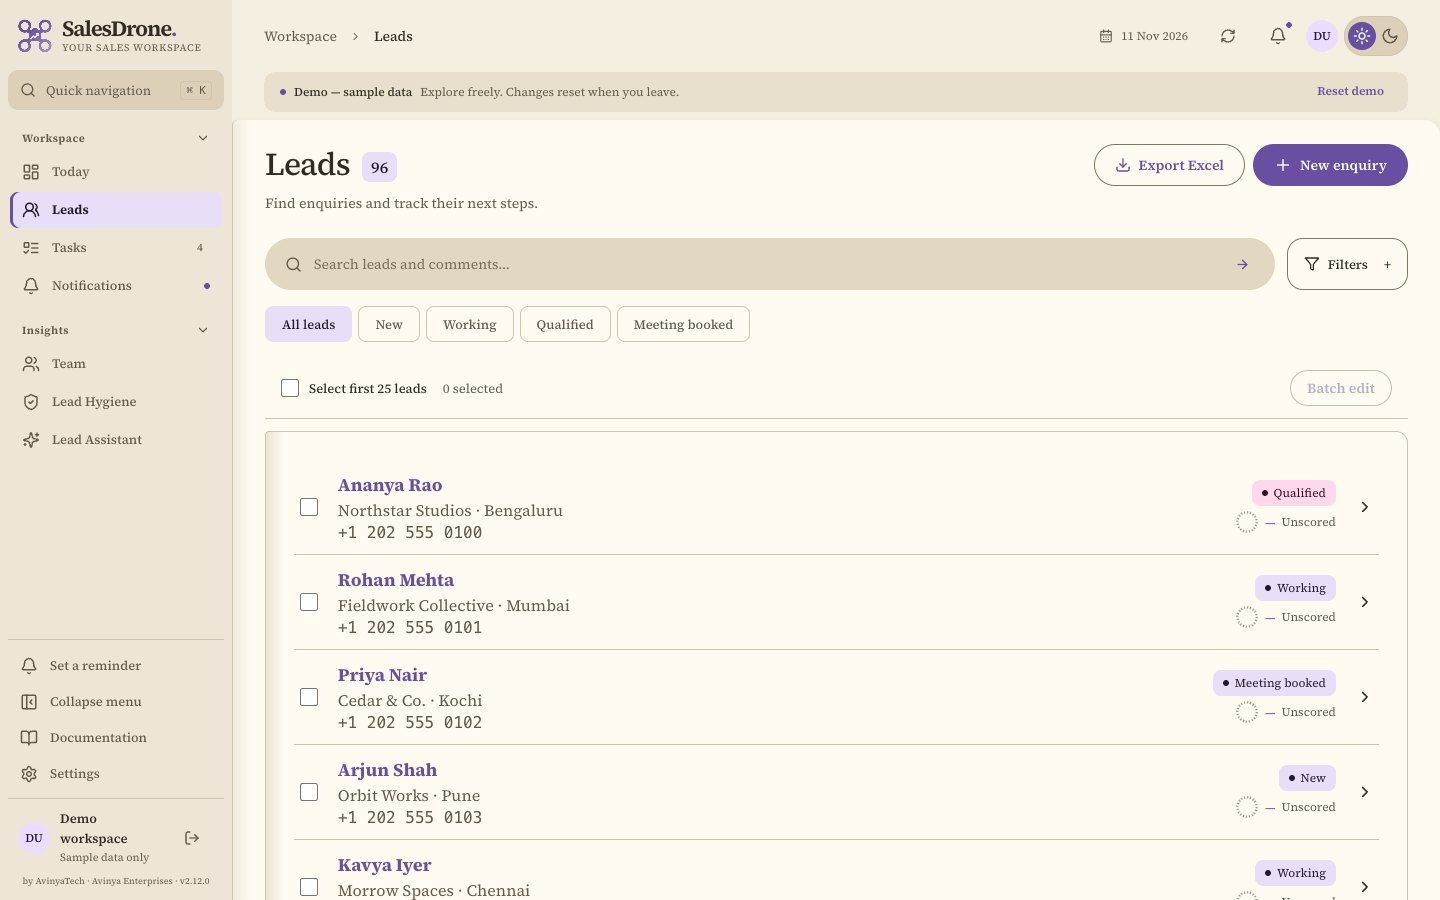
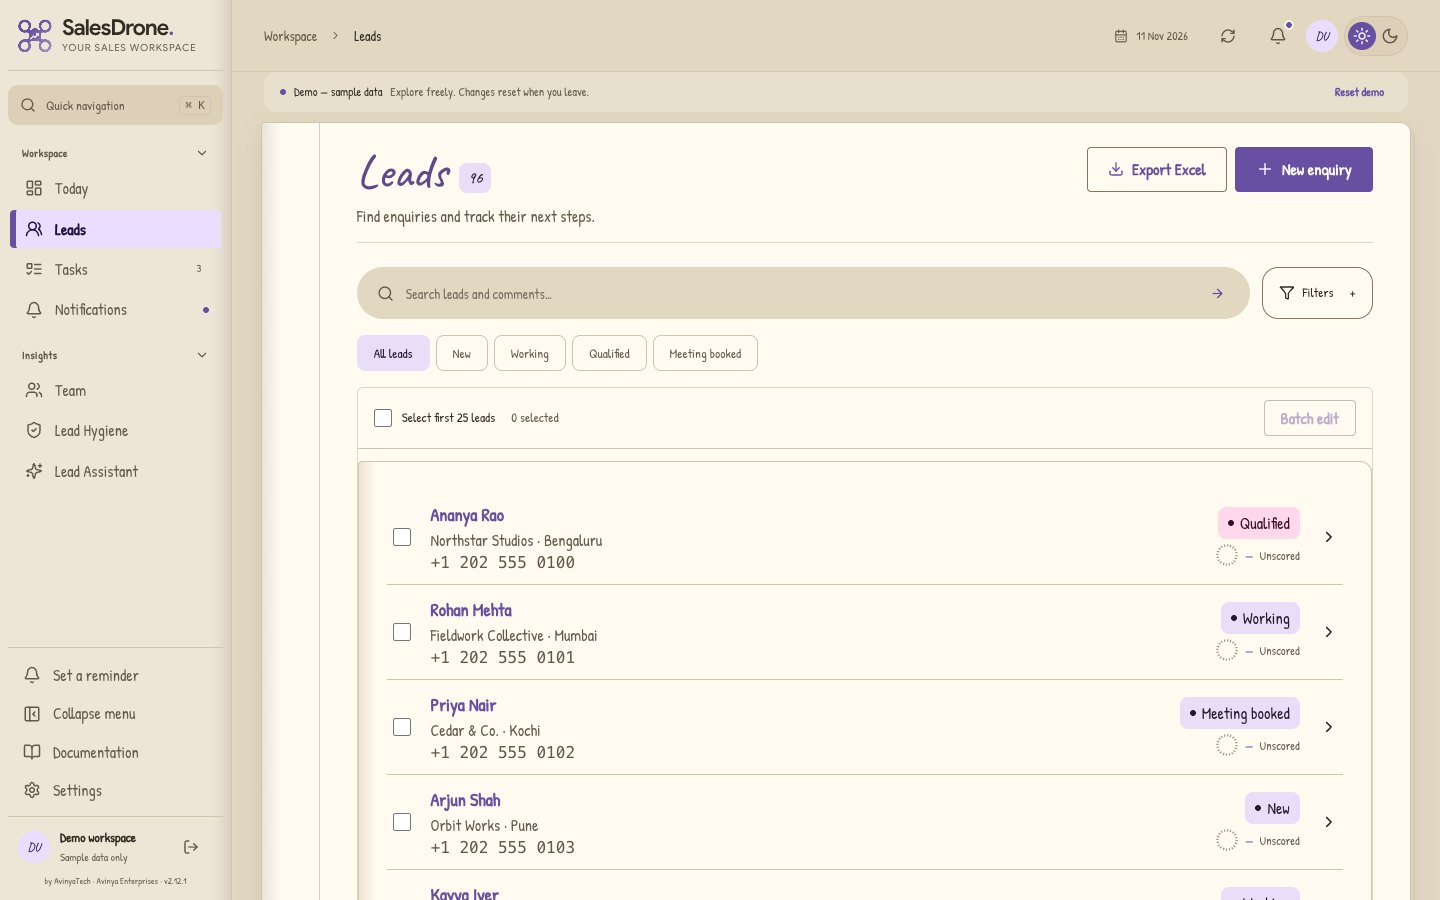
chore: prepare the v2.12.1 Book mode release

diff --git a/apps/web/src/features/SettingsPage.tsx b/apps/web/src/features/SettingsPage.tsx
@@ -498,7 +498,7 @@ export default function SettingsPage({
                       <p id="interface-font-help" className="field-hint">
                         Preview only until you save. Personal to your account.
                         Branding and phone-number fonts stay consistent. Book
-                        mode uses its own serif font; your choice returns when
+                        mode uses its own handwriting fonts; your choice returns when
                         Book mode is off.
                       </p>
                     </section>

diff --git a/docs/PRODUCT-GUIDE.md b/docs/PRODUCT-GUIDE.md
@@ -1,6 +1,6 @@
 # SalesDrone product handbook
 
-Version 2.12.0
+Version 2.12.1
 
 [Complete settings reference](SETTINGS.md) · [API guide](API.md) · [Technical architecture](TECHNICAL.md)
 
@@ -574,6 +574,8 @@ This is a visual reading style. It does not add offline access, physical e-ink b
 
 Book mode uses larger handwriting for body text and labels. On phones the binding narrows and navigation remains accessible from the bottom tabs.
 
+![Book mode: a quieter reading workspace — synthetic demo only](../site/assets/screenshots/book-dashboard-demo.jpg)
+
 ### Questions
 
 **Does switching to dark mode turn Book mode off?**
@@ -724,7 +726,7 @@ On narrow screens a lead opens its dedicated page. On larger screens inspection 
 
 Dialogs and Settings forms select columns by their own available width. Dashboard labels remain readable independently of chart geometry. Keyboard focus, reduced motion and 44px control targets remain available.
 
-Standard keeps the current Google Sans/Manrope pairing. Inter and Source Sans 3 offer sans-serif alternatives; Lora is an editorial serif. Book mode keeps its reading font and restores your saved selection when turned off. Branding, phone numbers and technical code are protected. Unsupported characters use system fallbacks.
+Standard keeps the current Google Sans/Manrope pairing. Inter and Source Sans 3 offer sans-serif alternatives; Lora is an editorial serif. Book mode uses its own handwriting and restores your saved selection when turned off. Branding, phone numbers and technical code are protected. Unsupported characters use system fallbacks.
 
 Settings > Appearance & time > Display zoom offers 85%, 90%, 100%, 110% or 125%. Save changes applies it on phones, tablets and desktops. Touch targets stay usable when making the content smaller. Browser and pinch zoom remain available; choose 100% to reset. This is personal and does not change permissions or lead data.
 

diff --git a/docs/FONT-CHOICES.md b/docs/FONT-CHOICES.md
@@ -6,7 +6,7 @@ Settings > Appearance & time includes an Interface font selector and an immediat
 
 The preference belongs to the signed-in member, not the whole workspace. Google sign-in/App Check and active membership are required for GET/PATCH /me; PATs cannot change this preference. Missing values default to Standard; older clients preserve saved values when omitting the field. Demo settings use a separate browser-local fallback and never become a live member’s default. Failed saves do not apply the draft globally.
 
-Book mode keeps its own serif family. Turning it off restores the saved interface font. The preview uses the selected family in standard mode; in Book mode its sample remains in the reading font, as the help text explains. SalesDrone branding retains its established standard-mode font, while phone numbers remain monospace and technical code keeps its standard-mode monospace styling. Unsupported scripts use system font fallback. Different font metrics can change wrapping and the number of visible columns; local table scrolling remains available. Font selection does not change lead data, access, notifications or scheduling.
+Book mode uses Caveat headings and Patrick Hand body text. Turning it off restores the saved interface font. The preview uses the selected family in standard mode; in Book mode its sample remains in the reading font, as the help text explains. SalesDrone branding retains its established standard-mode font, while phone numbers remain monospace and technical code keeps its standard-mode monospace styling. Unsupported scripts use system font fallback. Different font metrics can change wrapping and the number of visible columns; local table scrolling remains available. Font selection does not change lead data, access, notifications or scheduling.
 
 ## Files, loading and licensing
 

diff --git a/README.md b/README.md
@@ -152,9 +152,9 @@ The full lead page opens in **Comments**. Switch to **All** to see loaded activi
 
 Open **Settings → Appearance & time**, enable **Book mode**, and save. The workspace uses bound paper pages, section tabs and handwriting. Scroll the Leads index through its pages and open a lead to continue in the same book. Accent palettes and interface fonts are personal to your account.
 
-![Book mode lead workspace with fictional data and warm paper colours.](site/assets/screenshots/book-mode-light.jpg?sha=542dc1804c1d)
+![Book mode lead workspace with fictional data and warm paper colours.](site/assets/screenshots/book-mode-light.jpg?sha=78f2e2c5ffcd)
 
-[Accent palettes](site/assets/screenshots/appearance-palettes-demo.jpg) · [Book mode lead detail](site/assets/screenshots/book-lead-detail-demo.jpg)
+[Book mode dashboard](site/assets/screenshots/book-dashboard-demo.jpg) · [Lead detail](site/assets/screenshots/book-lead-detail-demo.jpg) · [Mobile enquiry form](site/assets/screenshots/book-form-mobile-demo.jpg)
 
 Saved settings now have a [durable audit trail](docs/SETTINGS-AUDIT.md) with safe Dynatrace event/log delivery. Agent guidance: [Book mode skill](skills/salesdrone-book-mode/SKILL.md).
 

diff --git a/skills/README.md b/skills/README.md
@@ -85,7 +85,7 @@ source/tests when using or changing them.
 
 - [Product handbook and screenshot maintenance](salesdrone-product-guide/SKILL.md): current workflows, FAQs and reviewed captures after UI changes.
 
-[Book mode](salesdrone-book-mode/SKILL.md) owns the complete serif reading style and paper palettes; workspace settings retains primary ownership of /me preferences.
+[Book mode](salesdrone-book-mode/SKILL.md) owns the handwritten notebook layout and paper palettes; workspace settings retains primary ownership of /me preferences.
 
 Design references shared with other agents: [Wondel Design & UX installation and licence](WONDEL-SOURCE.md). SalesDrone-specific principles remain in [interface](salesdrone-interface/SKILL.md) and [DESIGN-SYSTEM.md](../docs/DESIGN-SYSTEM.md).
 

diff --git a/CHANGELOG.md b/CHANGELOG.md
@@ -20,6 +20,13 @@ API contract versions are independent from application versions.
 
 
 
+
+## [2.12.1] - 2026-11-11
+
+### Changed
+- Redesign Book mode as a handwritten notebook across the workspace, with bound paper pages, bookmark navigation, a dashboard ledger and ruled form fields.
+- Keep the lead index and page turns usable on phones and desktops, with reduced motion and focus restoration.
+
 ## [2.12.0] - 2026-11-11
 
 ### Changed
@@ -39,8 +46,6 @@ API contract versions are independent from application versions.
 
 ## [Unreleased]
 
-### Changed
-- Extend Book mode across the workspace with bound paper pages, bookmark navigation, handwritten type and paper forms.
 
 ## [2.10.4] - 2026-11-08
 

diff --git a/docs/SETTINGS.md b/docs/SETTINGS.md
@@ -1,6 +1,6 @@
 # Customize SalesDrone
 
-Settings guide for **v2.12.0**. Desktop groups expand to reveal their sections; mobile uses a grouped Settings section selector. Admin-only sections are hidden for other members. Changes to workspace data are authorized by the API, not by navigation.
+Settings guide for **v2.12.1**. Desktop groups expand to reveal their sections; mobile uses a grouped Settings section selector. Admin-only sections are hidden for other members. Changes to workspace data are authorized by the API, not by navigation.
 
 ## Personal → Profile
 
